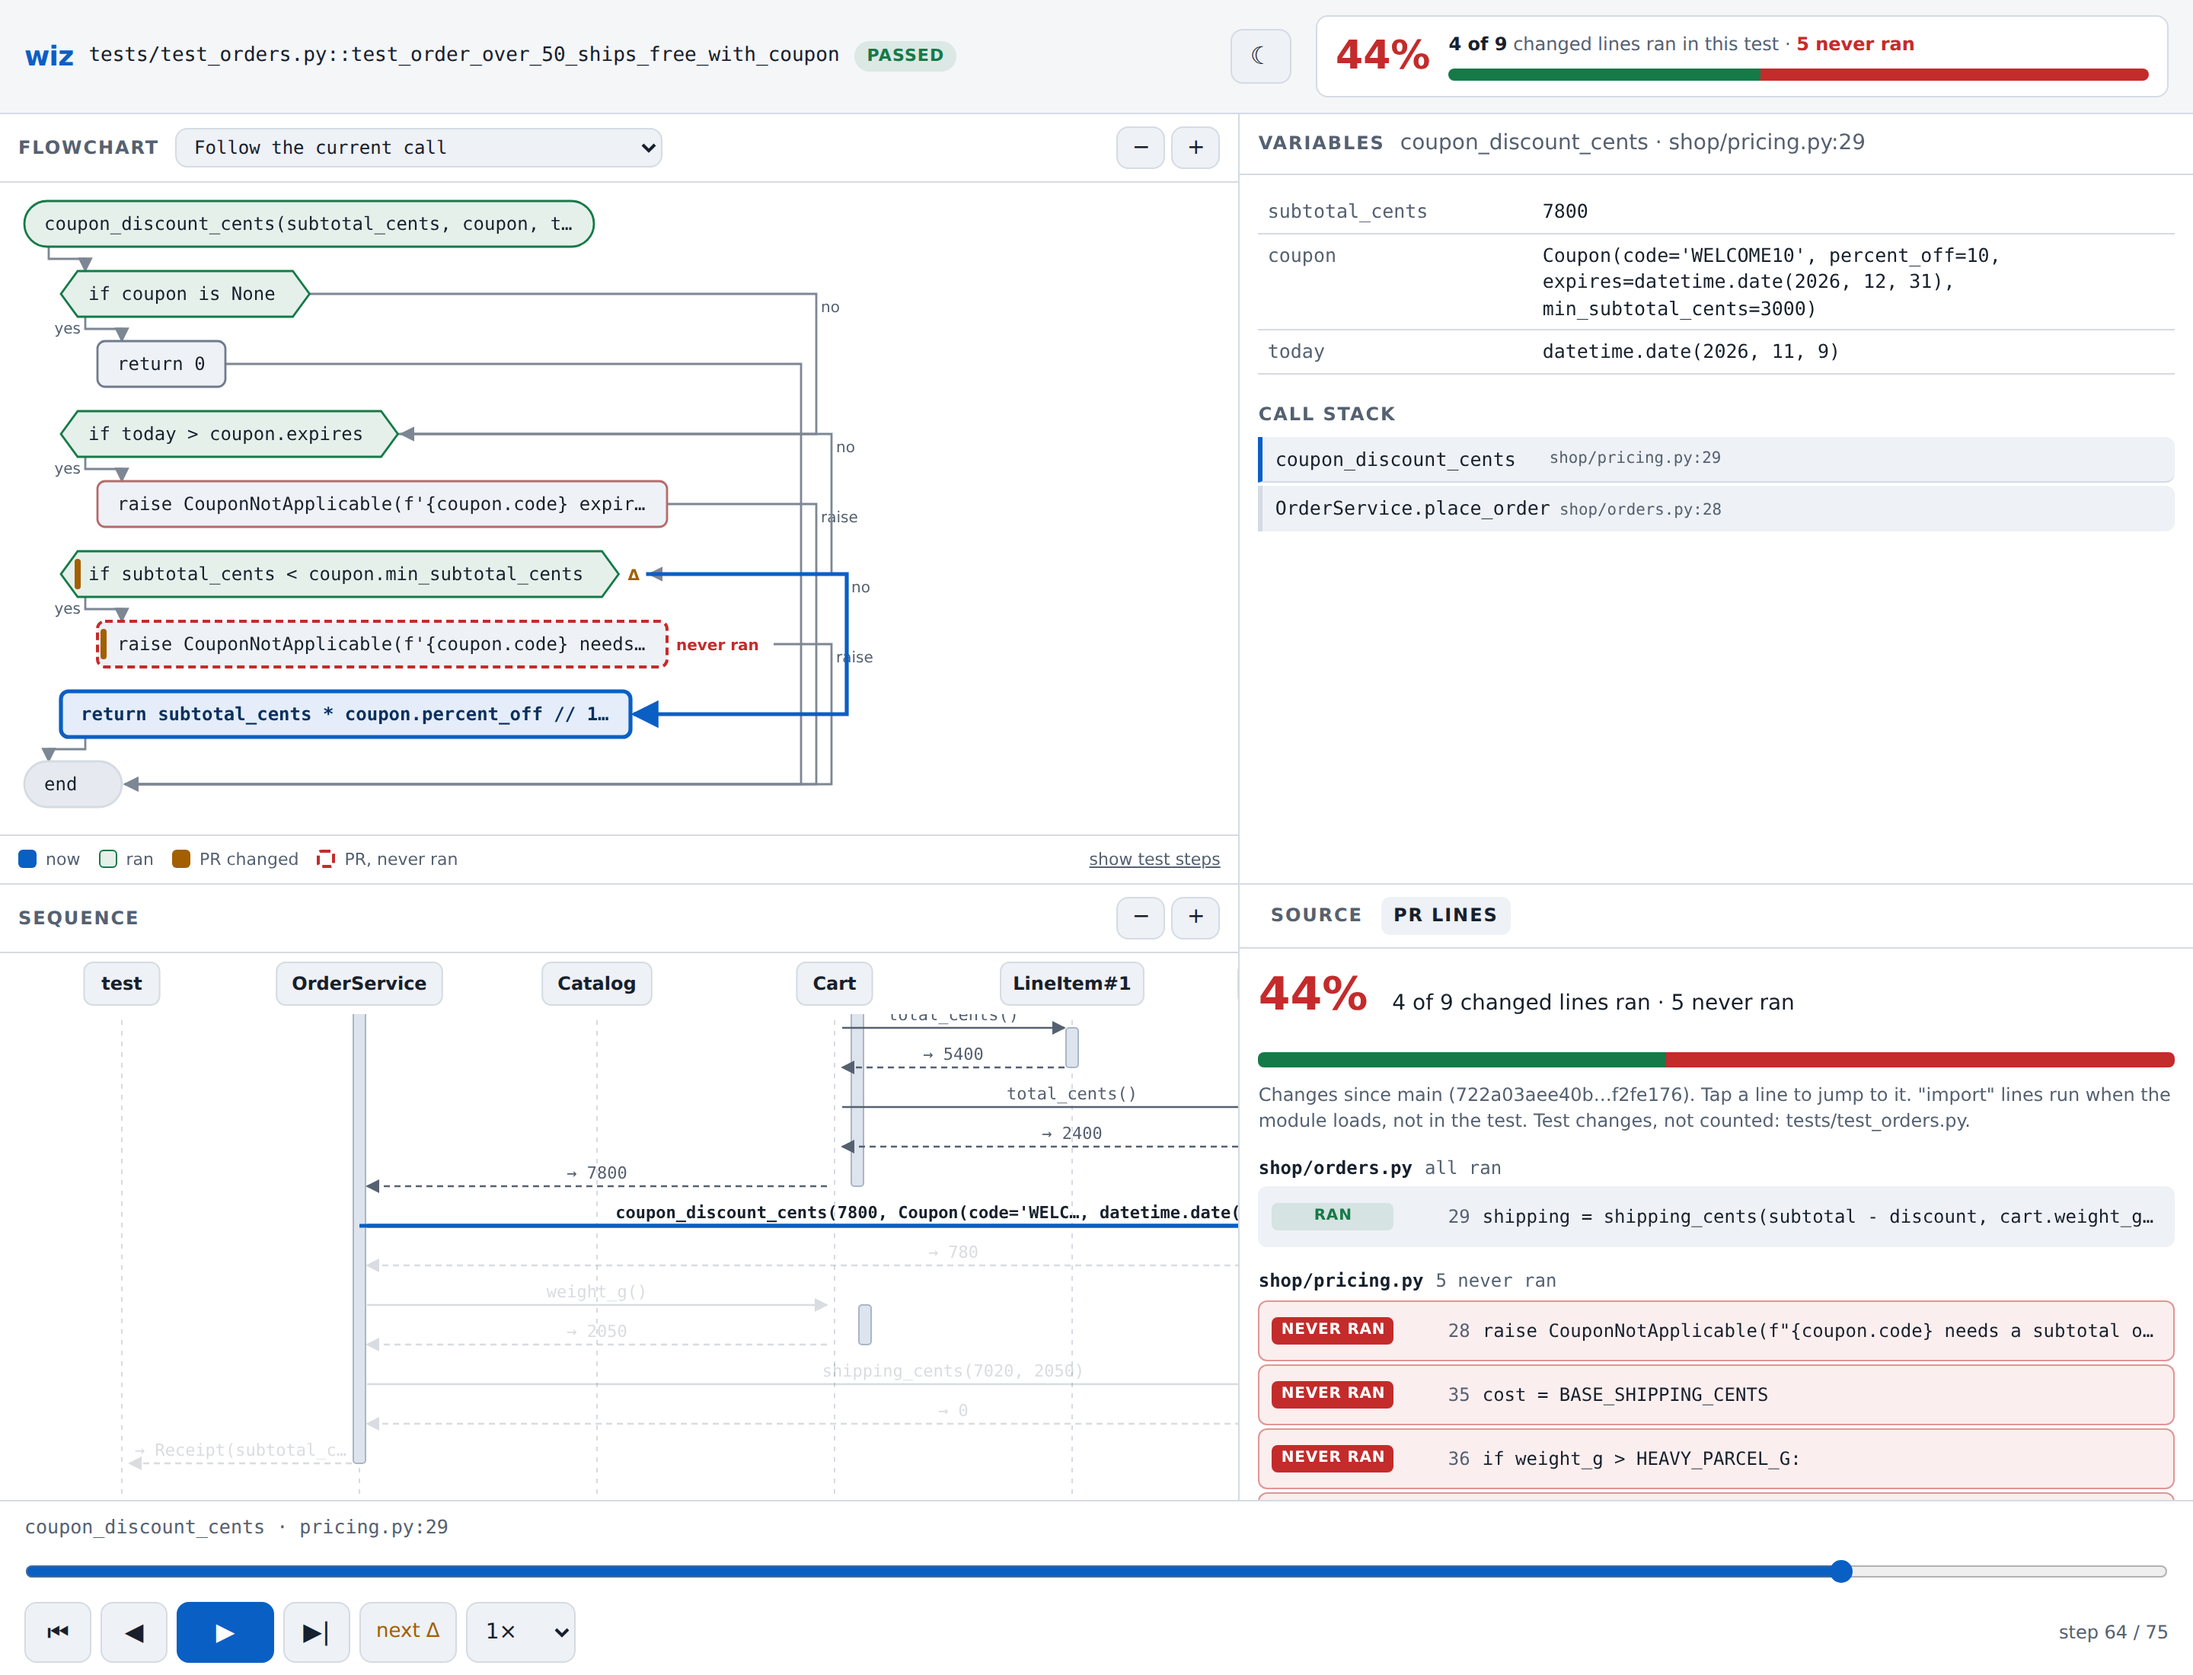
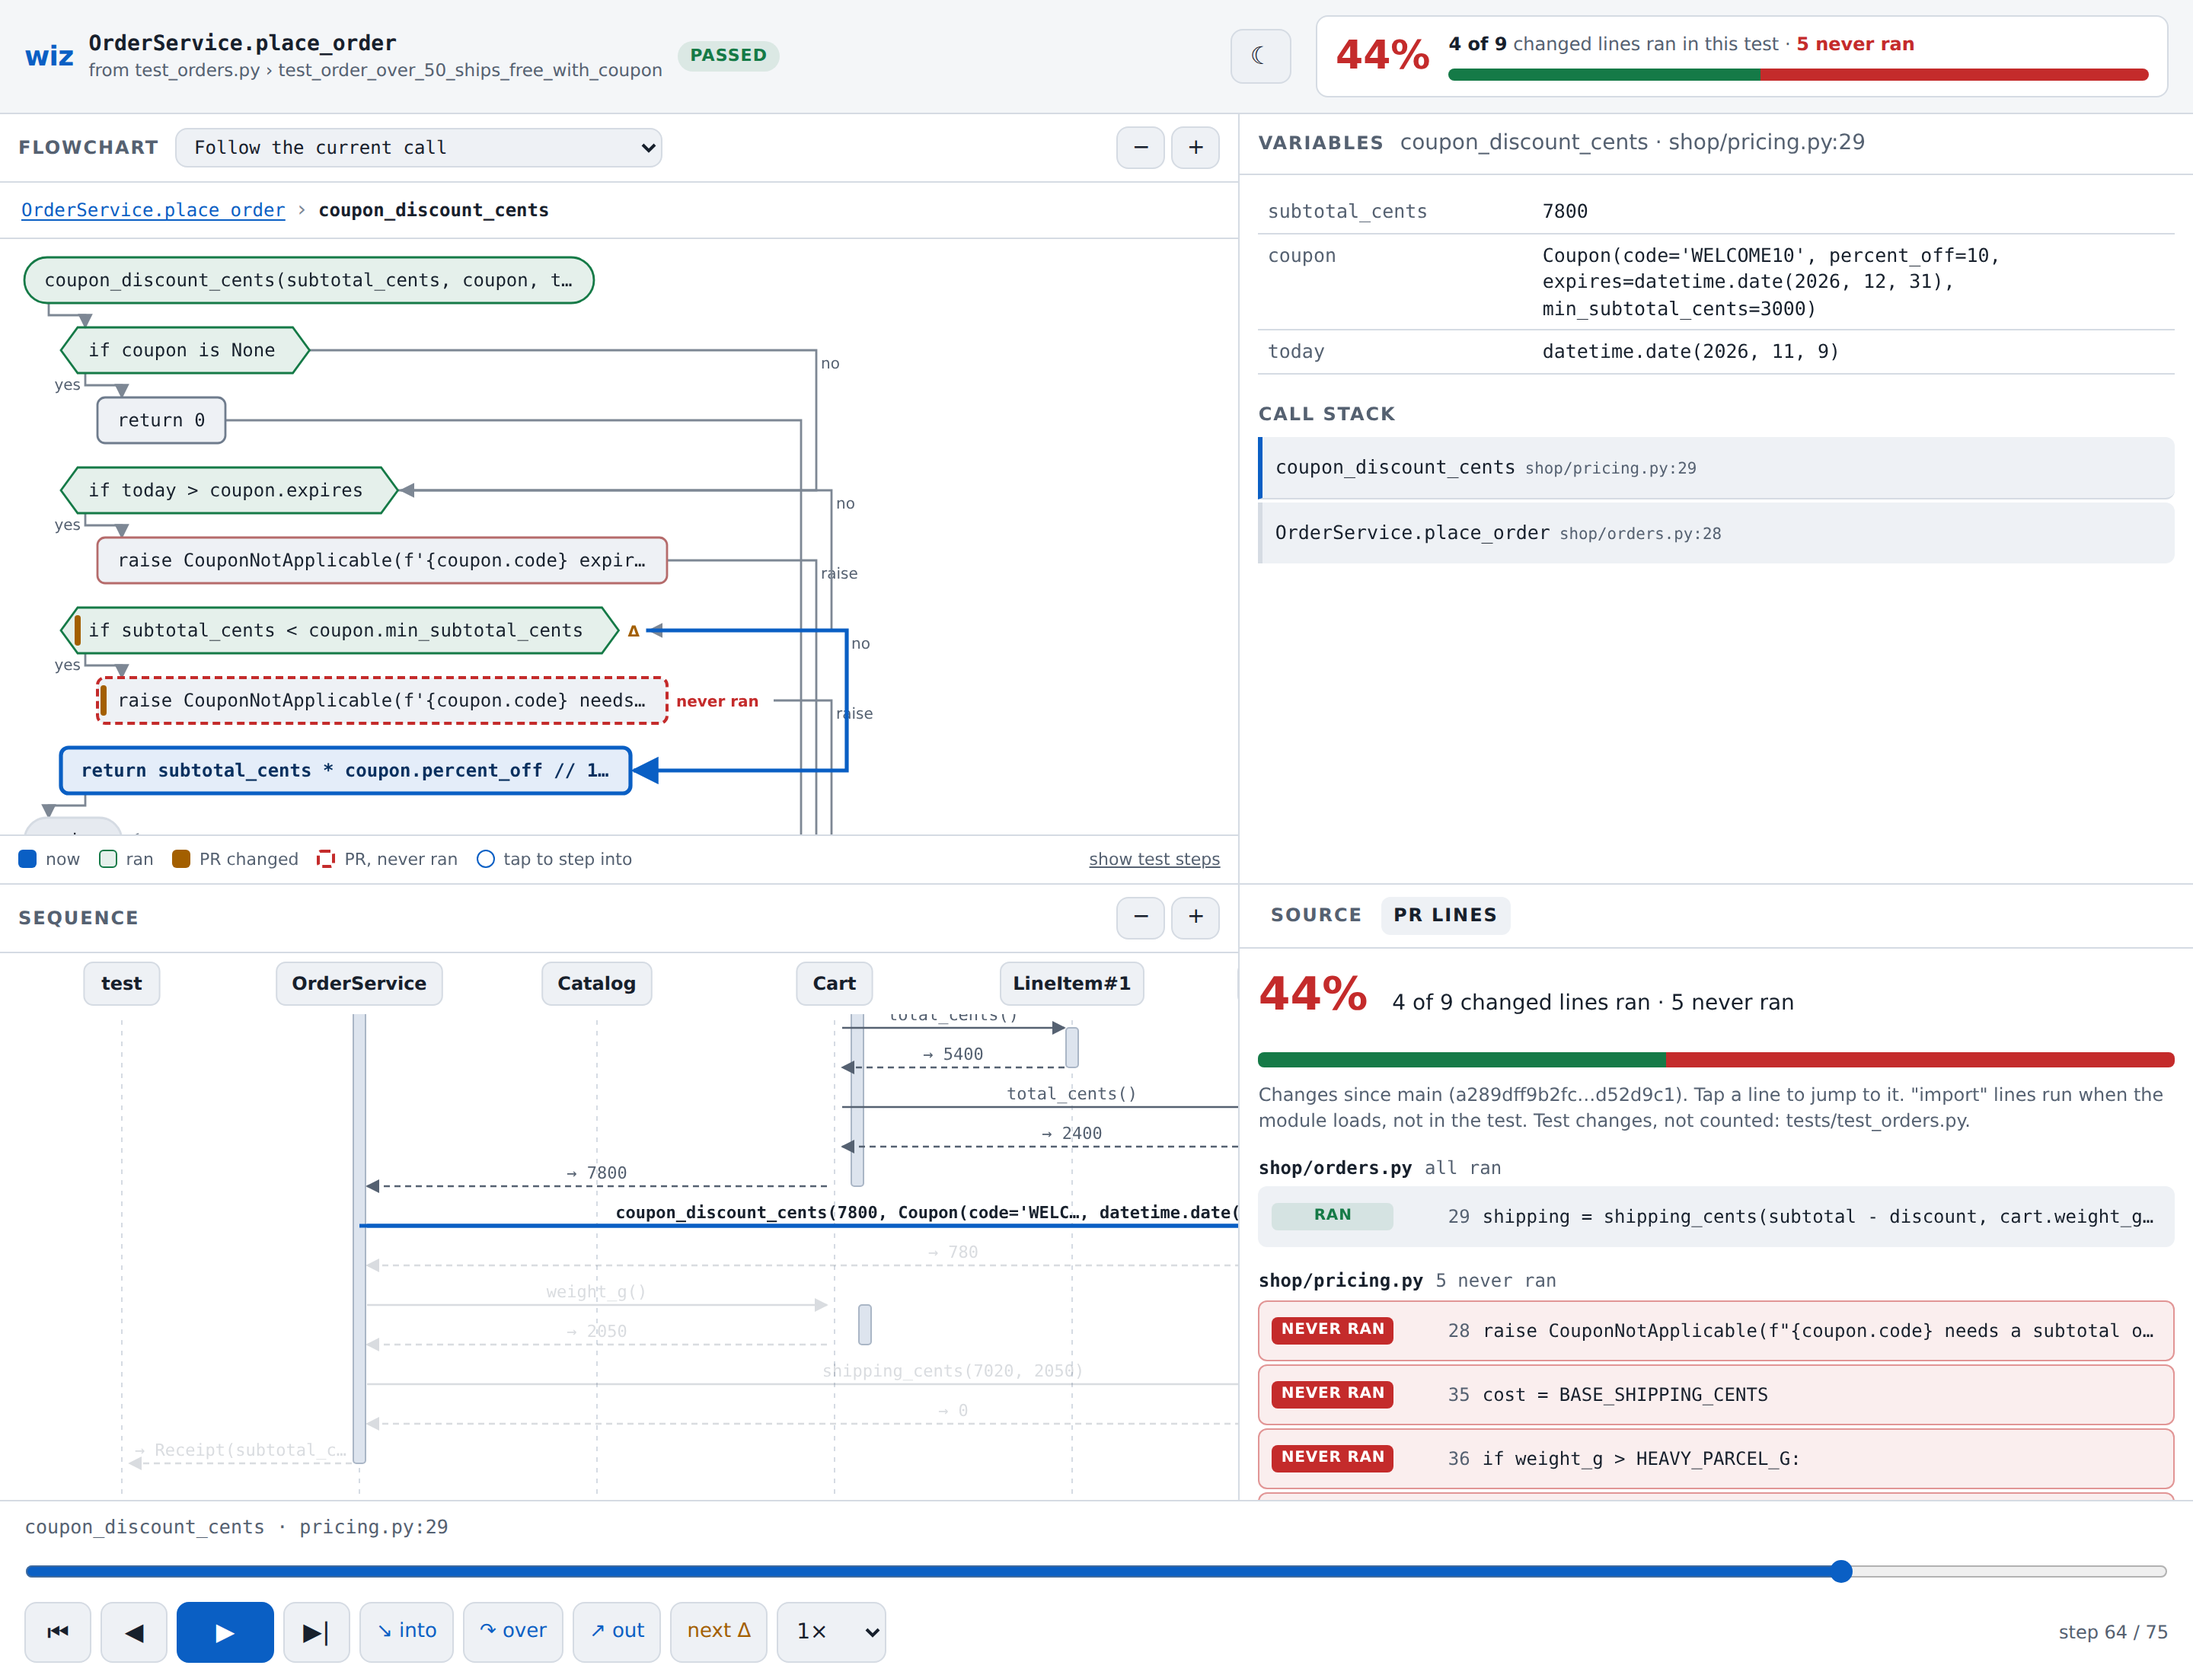
Compare positional constructor inputs field by field, and refresh the screenshots

diff --git a/scripts/screenshots.js b/scripts/screenshots.js
@@ -1,8 +1,8 @@
-// Render the viewer and the flows page headless (light theme) and save docs/screenshots/*.png.
+// Render the viewer and the functions page headless (light theme) and save docs/screenshots/*.png.
 // Needs Playwright (require('playwright')).
-//   node scripts/screenshots.js                      viewer shots of the Python demo (run ./examples/demo.sh first)
-//   node scripts/screenshots.js java <viewer.html>   the RuneStone-Bank transfer test (see docs/java.md) as java-*.png
-//   node scripts/screenshots.js flows <url>          the flows page of a running `wiz` (the demo shop), as flows*.png
+//   node scripts/screenshots.js                         viewer shots of the Python demo (run ./examples/demo.sh first)
+//   node scripts/screenshots.js java <viewer.html>      the RuneStone-Bank transfer test (see docs/java.md) as java-*.png
+//   node scripts/screenshots.js functions <url>         the functions page of a running `wiz` as functions*.png
 const path = require('path');
 const { chromium } = require('playwright');
 
@@ -12,13 +12,13 @@ const out = (name) => path.join(root, 'docs', 'screenshots', name);
 const target = {
   python: `file://${path.join(root, '.wiz', 'tests_test_orders.py__test_order_over_50_ships_free_with_coupon.html')}`,
   java: `file://${path.resolve(process.argv[3] || '')}`,
-  flows: process.argv[3],
+  functions: process.argv[3],
 }[mode];
 
-const onlyChanges = "localStorage.setItem('wiz-only-changes', '1'); location.reload()";
 const shots = {
   python: [
-    // Flowchart mid-play: inside shipping_cents, showing the path taken and the PR lines that never ran.
+    // Flowchart mid-play: stepped into shipping_cents from place_order (call path above the
+    // flowchart), showing the path taken and the PR lines that never ran.
     { name: 'flowchart.png', viewport: { width: 1440, height: 900 }, setup: 'wiz.go(71)' },
     { name: 'coverage.png', viewport: { width: 1440, height: 1100 }, setup: "wiz.go(63); wiz.setSide('cov')" },
     { name: 'phone.png', viewport: { width: 390, height: 844 }, setup: 'wiz.go(71)' },
@@ -28,9 +28,9 @@ const shots = {
     { name: 'java-flowchart.png', viewport: { width: 1440, height: 900 }, setup: 'wiz.go(66)' },
     { name: 'java-phone.png', viewport: { width: 390, height: 844 }, setup: 'wiz.go(66)' },
   ],
-  flows: [
-    { name: 'flows.png', viewport: { width: 1200, height: 560 }, setup: onlyChanges, wait: '.flow' },
-    { name: 'flows-phone.png', viewport: { width: 390, height: 700 }, setup: onlyChanges, wait: '.flow' },
+  functions: [
+    { name: 'functions.png', viewport: { width: 1200, height: 900 }, setup: 'window.scrollTo(0, 0)', wait: '.run' },
+    { name: 'functions-phone.png', viewport: { width: 390, height: 844 }, setup: 'window.scrollTo(0, 0)', wait: '.run' },
   ],
 }[mode];
 
@@ -42,7 +42,7 @@ const shots = {
     page.on('pageerror', (e) => problems.push(e.message));
     page.on('request', (r) => {
       const u = r.url();
-      if (!u.startsWith('file:') && !(mode === 'flows' && u.startsWith(target))) problems.push(`network request: ${u}`);
+      if (!u.startsWith('file:') && !(mode === 'functions' && u.startsWith(target))) problems.push(`network request: ${u}`);
     });
     await page.goto(target);
     await page.evaluate(s.setup).catch(() => {}); // a reload ends the evaluate early

diff --git a/src/wizualizer/functions.py b/src/wizualizer/functions.py
@@ -191,7 +191,8 @@ def object_fields(text: str) -> list[tuple[str, str]] | None:
     else:
         return None
     fields = []
-    for item in split_top(inner):
+    items = split_top(inner)
+    for item in items:
         for sep in ("=", ":"):
             k, found, v = item.partition(sep)
             k = k.strip().strip("'\"")
@@ -199,7 +200,10 @@ def object_fields(text: str) -> list[tuple[str, str]] | None:
                 fields.append((k, v.strip()))
                 break
         else:
-            return None
+            fields = None
+            break
+    if fields is None and text[:1].isupper() and not text.startswith("{"):
+        fields = [(str(i), v) for i, v in enumerate(items)]  # Type("a", 1): fields by position
     return fields or None
 
 

diff --git a/tests/test_functions.py b/tests/test_functions.py
@@ -40,6 +40,9 @@ def test_object_fields_reads_the_usual_shapes():
     assert object_fields("{'lines': [1, 2], 'coupon': None}") == [("lines", "[1, 2]"), ("coupon", "None")]
     assert object_fields('{"amount": 1000.00}') == [("amount", "1000.00")]
     assert object_fields("[1, 2]") is None and object_fields('"text"') is None and object_fields("f(1, 2)") is None
+    assert object_fields('Request("123", 100)') == [("0", '"123"'), ("1", "100")]
+    assert run_labels([(("r", 'Request("999", 100)'),), (("r", 'Request("123", 500)'),), (("r", 'Request("123", 100)'),)]) \
+        == ['"999", 100', '"123", 500', '"123", 100']
 
 
 def test_catalog_groups_runs_by_function_and_keeps_unplaced_tests_apart():

diff --git a/docs/contributing.md b/docs/contributing.md
@@ -7,7 +7,11 @@ python3 -m venv .venv && .venv/bin/pip install -e '.[dev]'
 ```
 
 The Java integration tests skip without a JDK and Maven; the Gradle one also
-needs `gradle` on PATH (or a wrapper download).
+needs `gradle` on PATH (or a wrapper download). `tests/test_java_fixtures.py`
+records Spring Boot tests in the realistic builds under `tests/fixtures/` (the
+first run downloads Gradle and Spring; `WIZ_SKIP_SLOW=1` skips it).
+`tests/test_browser.py` drives the viewer and the functions page in headless
+Chromium and skips without Node and Playwright.
 
 Demos: `./examples/demo.sh` (Python) and `./examples/java-demo.sh` (Maven)
 build a throwaway git repo under `.wiz/` with a "PR" branch and record one
@@ -18,7 +22,7 @@ Screenshots (needs Playwright):
 ```sh
 node scripts/screenshots.js                       # viewer, after ./examples/demo.sh
 node scripts/screenshots.js java <viewer.html>    # java-*.png
-node scripts/screenshots.js flows http://127.0.0.1:7357/   # flows page of the demo shop
+node scripts/screenshots.js functions http://127.0.0.1:7357/   # functions page of a running wiz
 ```
 
 Keep it local: no network calls, no telemetry, no runtime dependencies. Pure
